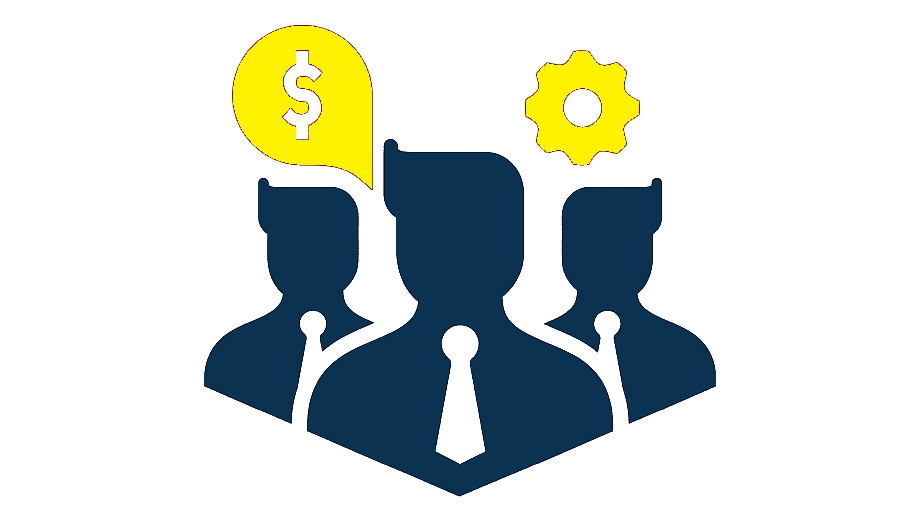
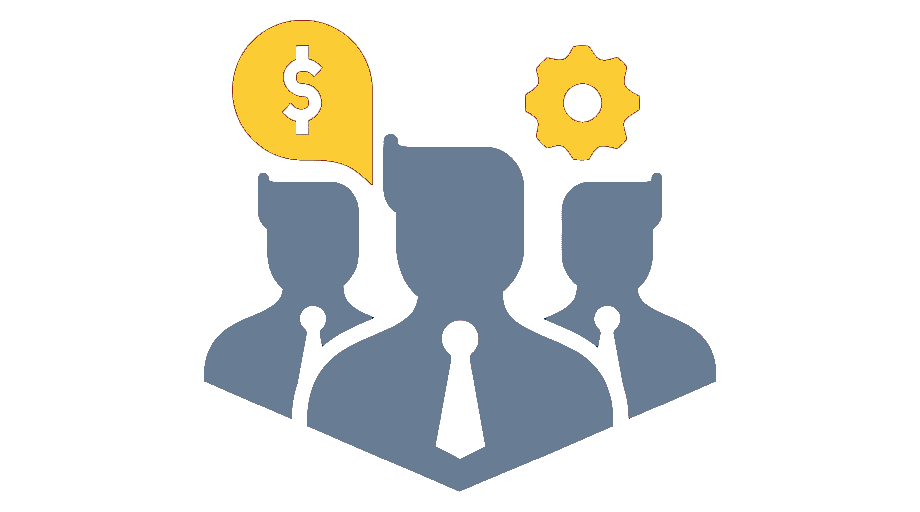
2nd commit

Changed region(s): [[0.213, 0.0312, 0.7913, 0.9688]]

diff --git a/main.css b/main.css
@@ -1022,7 +1022,7 @@ a.has-text-dark:focus {
 }
 
 .has-text-primary {
-    color: #99bbff !important
+    color: #687d94 !important
 }
 
 a.has-text-primary:hover,
@@ -2150,14 +2150,14 @@ a.box:active {
 .button.is-primary.is-outlined {
     background-color: transparent;
     border-color:  #fccc35;
-    color:#0c3353;
+    color: #687d94;
 }
 
 .button.is-primary.is-outlined:hover,
 .button.is-primary.is-outlined:focus {
-    background-color: #0c3353;
-    border-color: #fccc35;
-    color: #fff
+    background-color: #687d94;
+    border-color: #0c3353;
+    color: #fff;
 }
 
 .button.is-primary.is-outlined.is-loading::after {
@@ -11132,7 +11132,7 @@ hr {
 }
 
 .section.is-primary {
-    background-color: #e7bc2d70;
+    background-color: #687d94;
     color: #fff
 }
 
@@ -11490,8 +11490,8 @@ hr {
 .section.call-to-action .box {
     padding: 3.5rem 2rem;
     margin-top: -9rem;
-    background-color: :#0c3353
-    box-shadow: 0 5px 5px 0 rgba(0, 0, 0, 0.2), 0 0 0 1px #293347
+    background-color:  #0c3353;
+    box-shadow: 0 5px 5px 0 rgba(0, 0, 0, 0.2), 0 0 0 1px #293347;
 }
 
 @media screen and (min-width: 769px) {

diff --git a/index.html b/index.html
@@ -205,7 +205,7 @@
                         <div class="column level-item">
                             <div class="box"><img src="img/icon2.png" width="200px" height="250">
                                 <h1 class="title is-spaced">Jesteś zainteresowany wspieraniem lokalnych biznesów?</h1>
-                        <h2 class="subtitle is-size-5-desktop">Wybieraj małych przedsiębiorców spośród wielu kategorii w twojej okolicy!</h2><a class="button is-primary is-outlined is-rounded is-medium" href="contact.html">Przejdź do listy!</a>
+                        <h2 class="subtitle is-size-5-desktop">Wybieraj małych przedsiebiorców spośród wielu kategorii w twojej okolicy!</h2><a class="button is-primary is-outlined is-rounded is-medium" href="contact.html">Przejdź do listy!</a>
                             </div>
                         </div>
 
